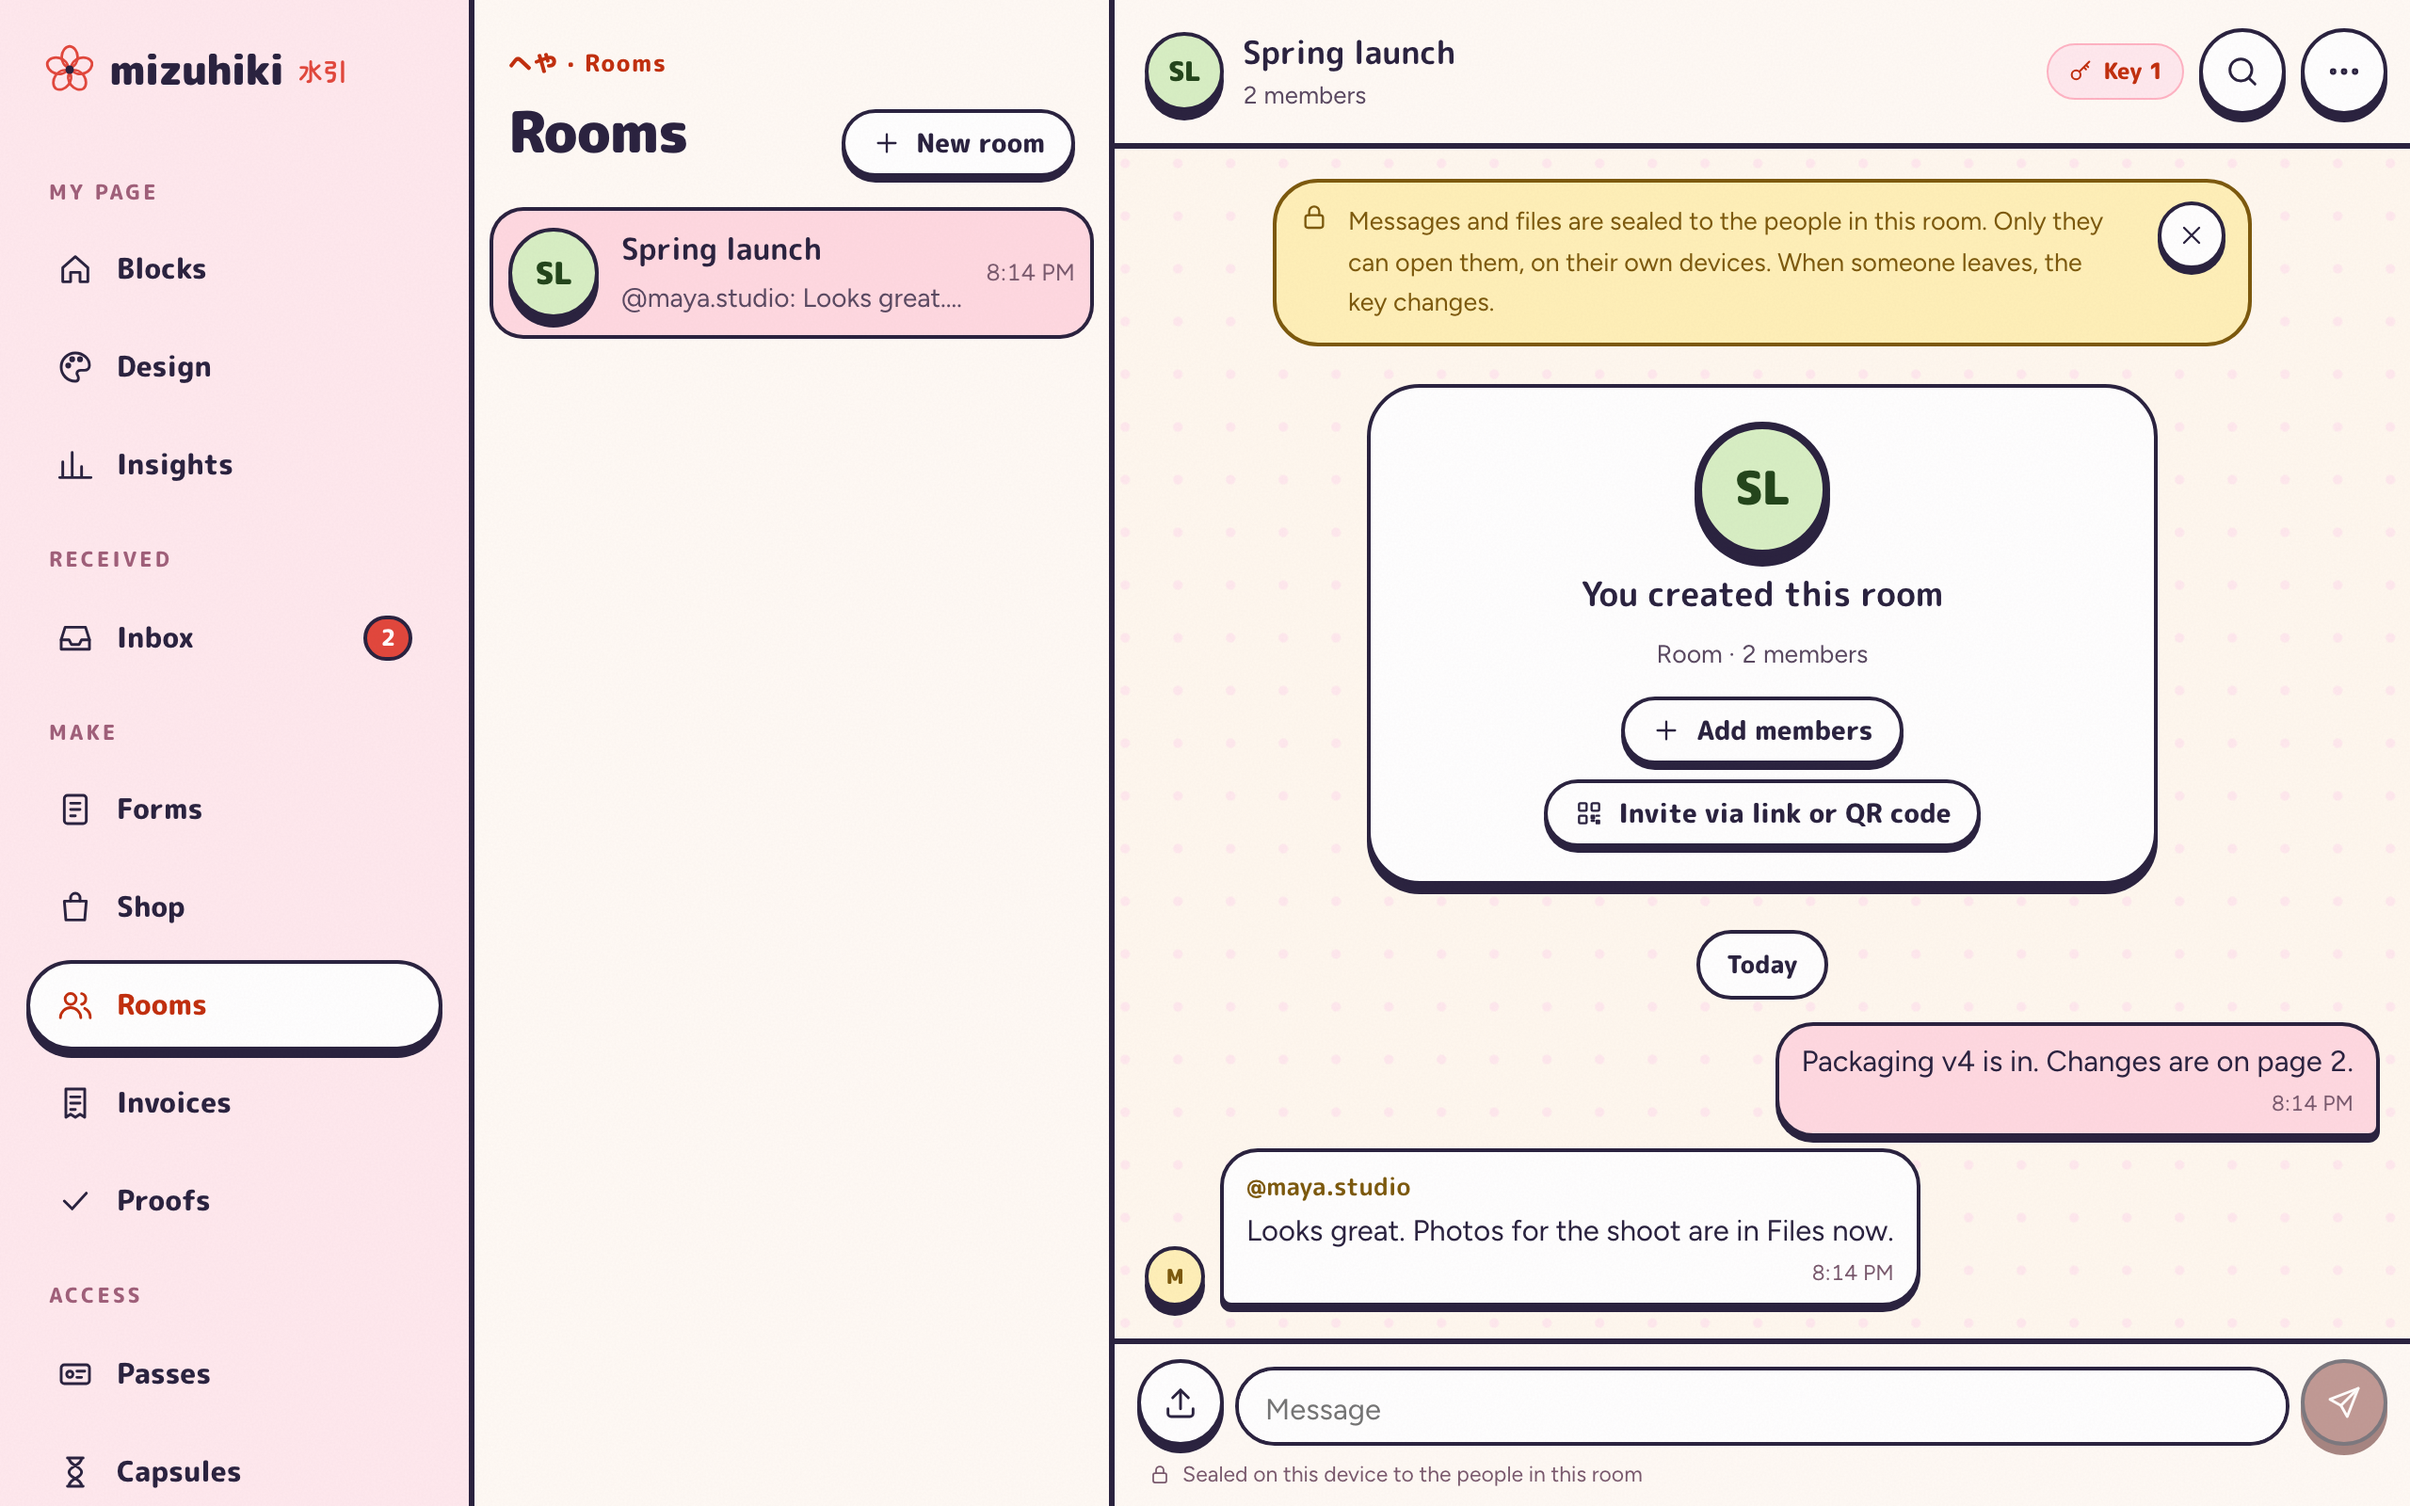
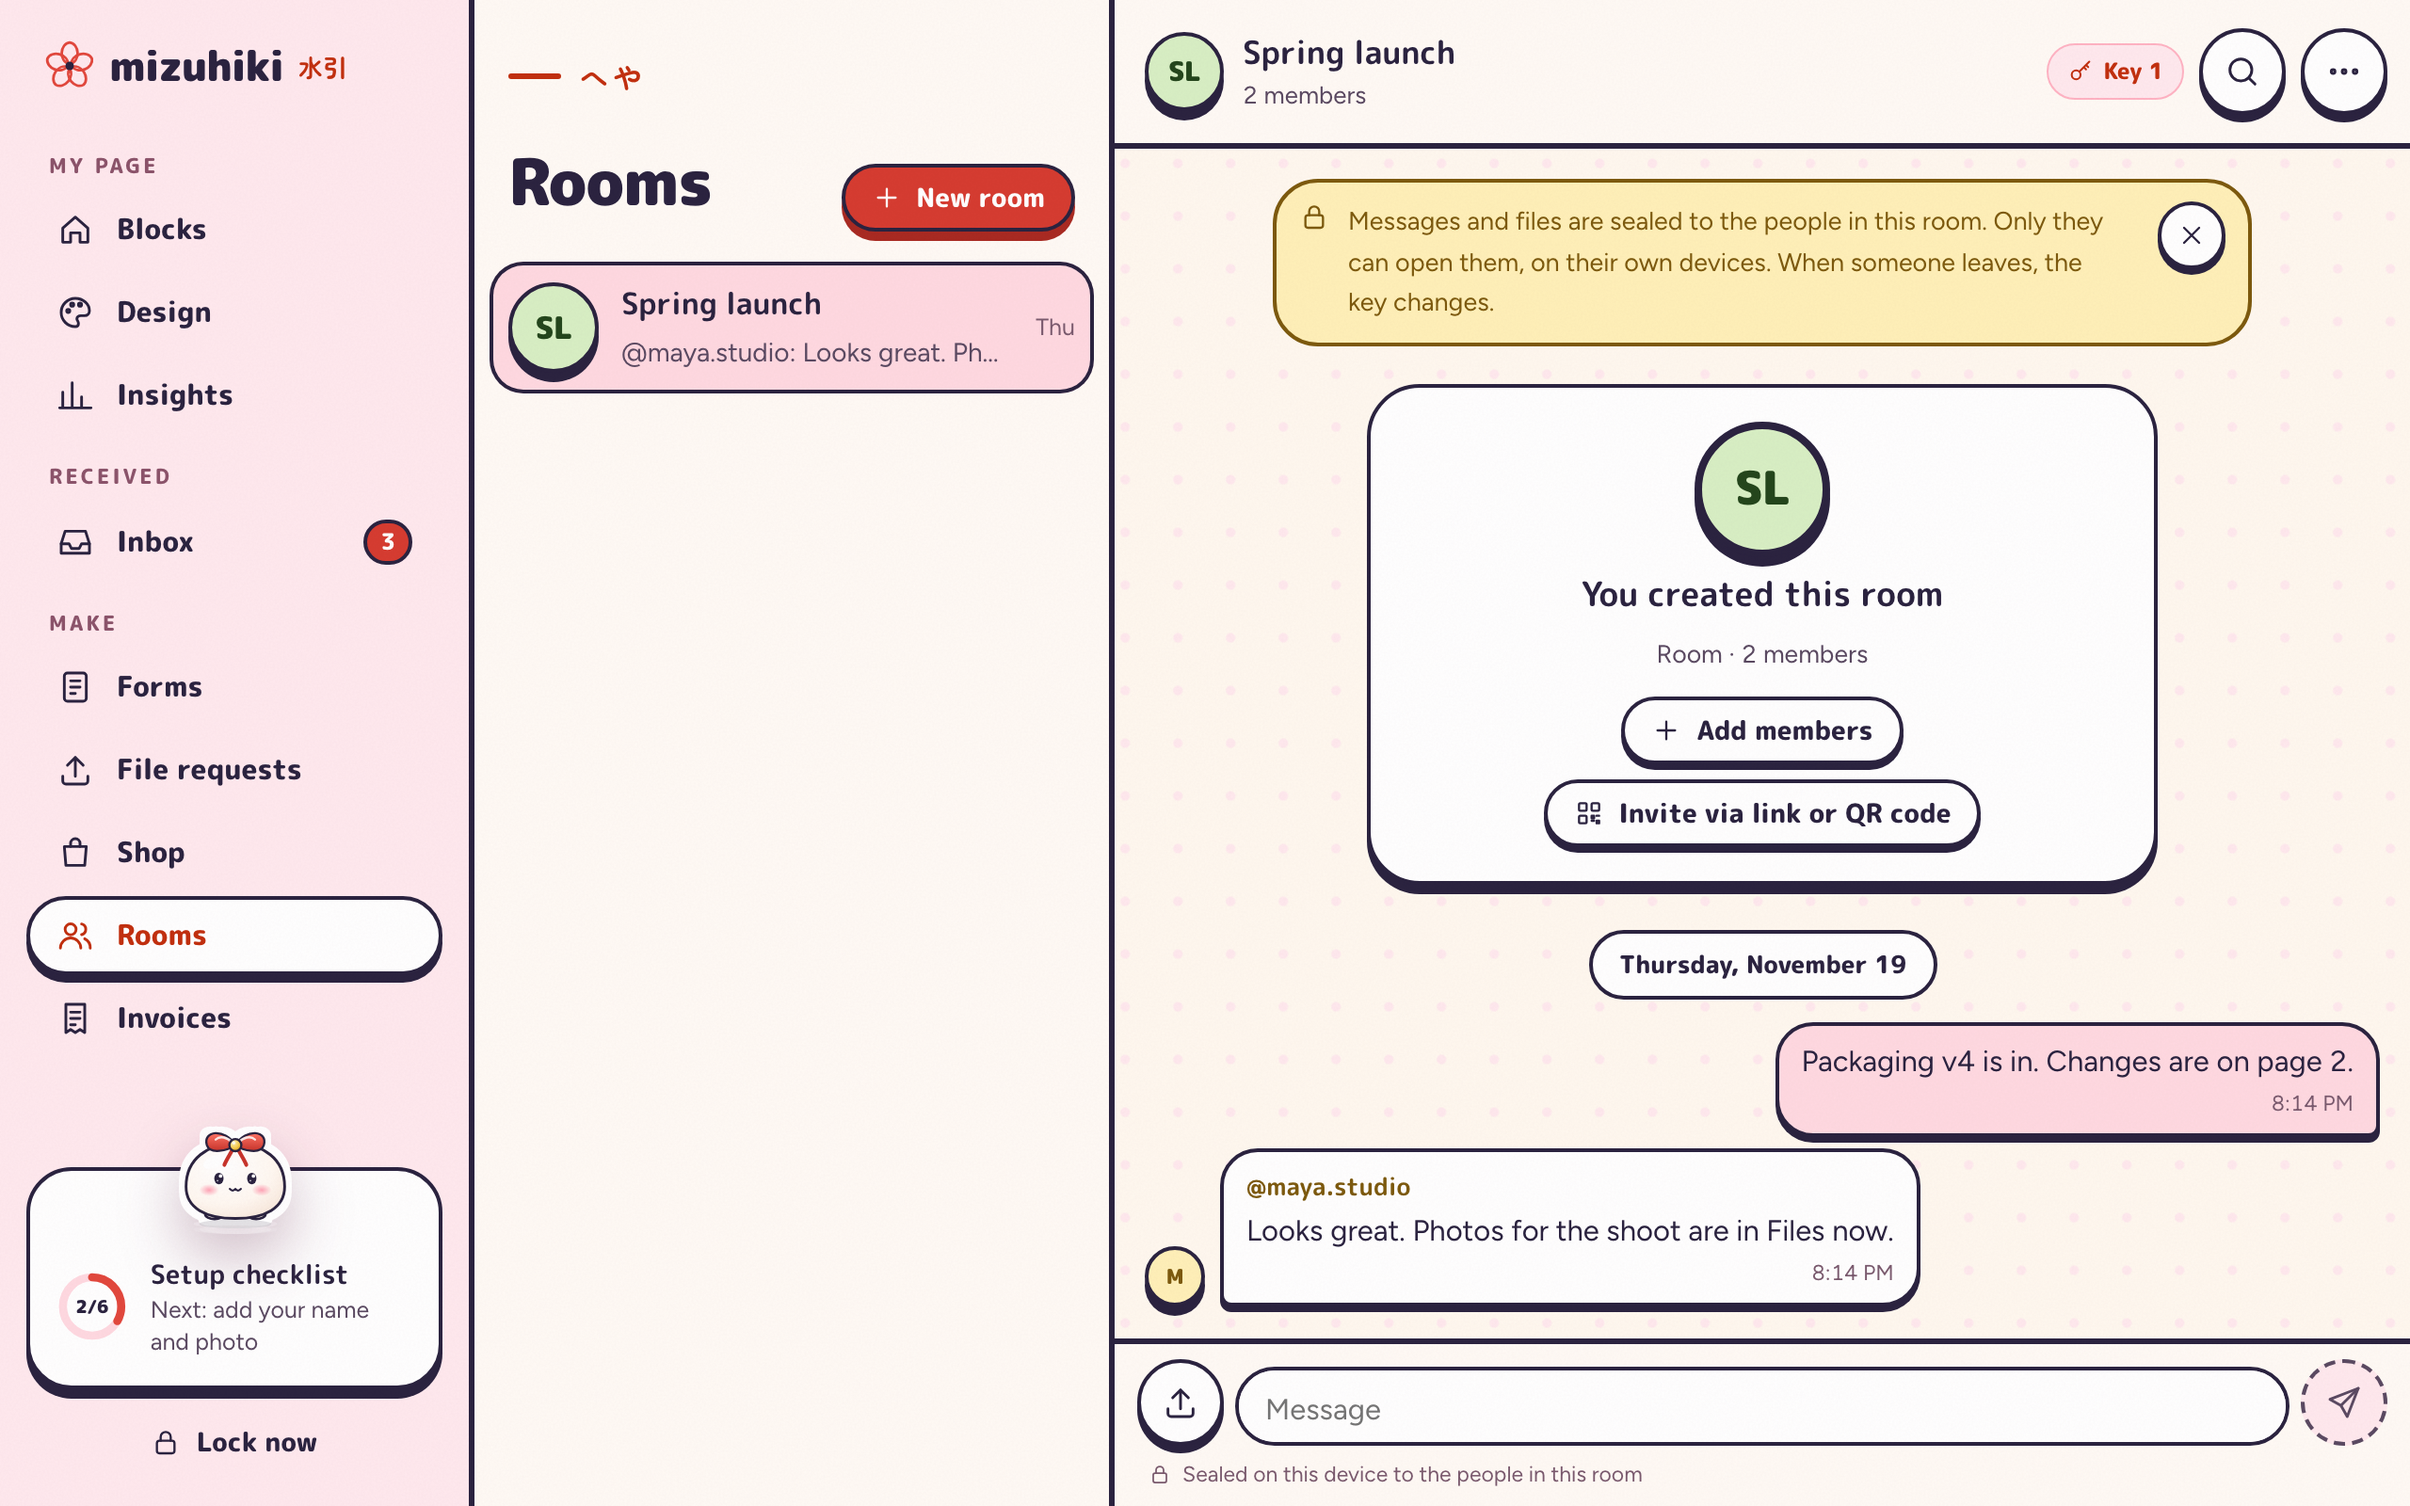
Show today's app in the landing's screens
The landing's product screens and example pages are shot again from the
production build: capsules read "Set", the demo pages carry no
placeholder links, and @aria's page shows its form and file request.
The owner sidebar fades at both edges when its sections scroll, so a
heading is never cut in half. The @aria business content now lives in
the demo pipeline beside the existing steps, each run once and recorded
in var/demo-content.json (pnpm --filter @mizuhiki/e2e demo:content).

diff --git a/tests/e2e/demo/landing-content-business.spec.ts b/tests/e2e/demo/landing-content-business.spec.ts
@@ -2,15 +2,25 @@
  * Demo content for @aria, made through the real app the way Aria and her clients would make it: a product in the
  * shop, a client intake form, a file request, a proof, a paid page payment from a client, an invoice to that
  * client, a form answer and an upload. Everything is real: sealed in the browser, signed with Aria's keys, paid
- * on the QoreChain test network. Run after `tsx tools/demo-seed.ts`, against a running stack:
- *
- *   npx playwright test -c tools/demo.config.ts
+ * on the QoreChain test network. Each step runs once; its result is kept in var/demo-content.json, beside the
+ * steps of landing-content.spec.ts. Run: pnpm --filter @mizuhiki/e2e demo:content (after demo:seed).
  */
 import { randomBytes } from "node:crypto";
+import { existsSync, readFileSync, writeFileSync } from "node:fs";
+import { resolve } from "node:path";
 import { expect, test, type Browser, type Page } from "@playwright/test";
 import { DENOMS } from "@mizuhiki/chain";
 import { ensurePersona, personaPhrase, topUp } from "@mizuhiki/testnet";
 import { API, apiToken, restoreInBrowser } from "../specs/owner";
+
+const STATE = resolve(import.meta.dirname, "../../../var/demo-content.json");
+type Step = "product" | "form" | "proof" | "deposit" | "invoice";
+const done = (k: Step): boolean =>
+  existsSync(STATE) && (JSON.parse(readFileSync(STATE, "utf8")) as Record<string, unknown>)[k] === true;
+const mark = (k: Step): void => {
+  const cur = existsSync(STATE) ? (JSON.parse(readFileSync(STATE, "utf8")) as Record<string, unknown>) : {};
+  writeFileSync(STATE, JSON.stringify({ ...cur, [k]: true }, null, 2));
+};
 
 const ARIA = "aria";
 const CLIENT_LABEL = "demo-client-leaf";
@@ -51,6 +61,7 @@ test.beforeAll(async () => {
 });
 
 test("aria: a product in the shop, on her page", async ({ browser }) => {
+  test.skip(done("product"), "already made");
   const a = await as(browser, personaPhrase("demo-aria"));
   await nav(a, "Shop");
   await a.getByRole("link", { name: "New product" }).first().click();
@@ -80,9 +91,11 @@ test("aria: a product in the shop, on her page", async ({ browser }) => {
   await a.getByRole("tab", { name: "Share" }).click();
   await a.getByRole("button", { name: "Add button" }).click();
   await expect(a.getByText(/Added|on your page/i).first()).toBeVisible({ timeout: 120_000 });
+  mark("product");
 });
 
 test("aria: a client intake form and a file request, both on her page", async ({ browser }) => {
+  test.skip(done("form"), "already made");
   const a = await as(browser, personaPhrase("demo-aria"));
   await nav(a, "Forms");
   await a.getByRole("button", { name: "New form" }).first().click();
@@ -107,9 +120,11 @@ test("aria: a client intake form and a file request, both on her page", async ({
   await share.getByRole("button", { name: "Add to my page" }).click();
   await expect(a.getByText("Added to your page and published")).toBeVisible({ timeout: 120_000 });
   await share.getByRole("button", { name: "Done" }).click();
+  mark("form");
 });
 
 test("aria: proves a signed contract existed", async ({ browser }) => {
+  test.skip(done("proof"), "already made");
   const a = await as(browser, personaPhrase("demo-aria"));
   await nav(a, "Proofs");
   await a.waitForURL("**/app/proof");
@@ -123,9 +138,11 @@ test("aria: proves a signed contract existed", async ({ browser }) => {
   await sheet.getByRole("button", { name: "Anchor on QoreChain" }).click();
   await expect(sheet.getByText("Anchored. It is on QoreChain now.")).toBeVisible({ timeout: 240_000 });
   await sheet.getByRole("button", { name: "Done" }).click();
+  mark("proof");
 });
 
 test("a client pays a deposit from Aria's page, with a sealed note", async ({ browser }) => {
+  test.skip(done("deposit"), "already made");
   const v = await as(browser, personaPhrase(CLIENT_LABEL));
   await v.goto(`/@${ARIA}/pay/48`);
   const sheet = v.getByRole("dialog", { name: "Pay Aria" });
@@ -140,9 +157,11 @@ test("a client pays a deposit from Aria's page, with a sealed note", async ({ br
   await expect(v.getByRole("dialog", { name: "Paid Aria" }).getByText("Paid Aria 48 fUSD.")).toBeVisible({
     timeout: 180_000,
   });
+  mark("deposit");
 });
 
 test("aria: invoices the client for the remaining work", async ({ browser }) => {
+  test.skip(done("invoice"), "already made");
   const a = await as(browser, personaPhrase("demo-aria"));
   await nav(a, "Invoices");
   await a.waitForURL("**/app/invoices");
@@ -166,4 +185,5 @@ test("aria: invoices the client for the remaining work", async ({ browser }) => 
   const share = a.getByRole("dialog", { name: /Invoice #\d{4} is ready/ });
   await share.getByRole("button", { name: `Send to @${CLIENT}` }).click();
   await expect(share.getByRole("button", { name: "Sent" })).toBeVisible({ timeout: 120_000 });
+  mark("invoice");
 });

diff --git a/tests/e2e/demo/landing-content.spec.ts b/tests/e2e/demo/landing-content.spec.ts
@@ -230,8 +230,8 @@ test("demo content on @aria", async ({ browser }) => {
     await aria.getByRole("button", { name: "They match, confirm" }).click();
     await expect(aria.getByText("@rohan.law is confirmed.")).toBeVisible({ timeout: 30_000 });
     await aria.getByRole("button", { name: /Confirm your plan/ }).click();
-    await aria.getByRole("button", { name: "Confirm and arm" }).click();
-    await expect(aria.getByText("Armed on QoreChain.")).toBeVisible({ timeout: 240_000 });
+    await aria.getByRole("button", { name: "Confirm and set" }).click();
+    await expect(aria.getByText("Set on QoreChain.")).toBeVisible({ timeout: 240_000 });
     s.capsule = s.capsuleDraft;
     delete s.capsuleDraft;
     save(s);

diff --git a/tests/e2e/demo/landing-shots.spec.ts b/tests/e2e/demo/landing-shots.spec.ts
@@ -87,7 +87,7 @@ test("@aria's owner app", async ({ browser }) => {
     .first()
     .click();
   await page.waitForURL(`**/app/capsules/${s.capsule}`);
-  await expect(page.getByText(/Armed/).first()).toBeVisible({ timeout: 60_000 });
+  await expect(page.getByText(/Set and waiting/).first()).toBeVisible({ timeout: 60_000 });
   await expect(page.getByRole("button", { name: "I’m here, check in" })).toBeVisible({ timeout: 90_000 });
   await shot("app-capsule");
 

diff --git a/apps/web/src/owner/owner.module.css b/apps/web/src/owner/owner.module.css
@@ -39,9 +39,10 @@
   flex-direction: column;
   gap: 2px;
   margin-inline: -14px;
-  padding: 0 14px 24px;
+  padding: 12px 14px 24px;
+  margin-top: -12px;
   scrollbar-width: thin;
-  mask-image: linear-gradient(to bottom, #000 calc(100% - 24px), transparent);
+  mask-image: linear-gradient(to bottom, transparent, #000 12px, #000 calc(100% - 24px), transparent);
 }
 .list > * {
   flex-shrink: 0;
